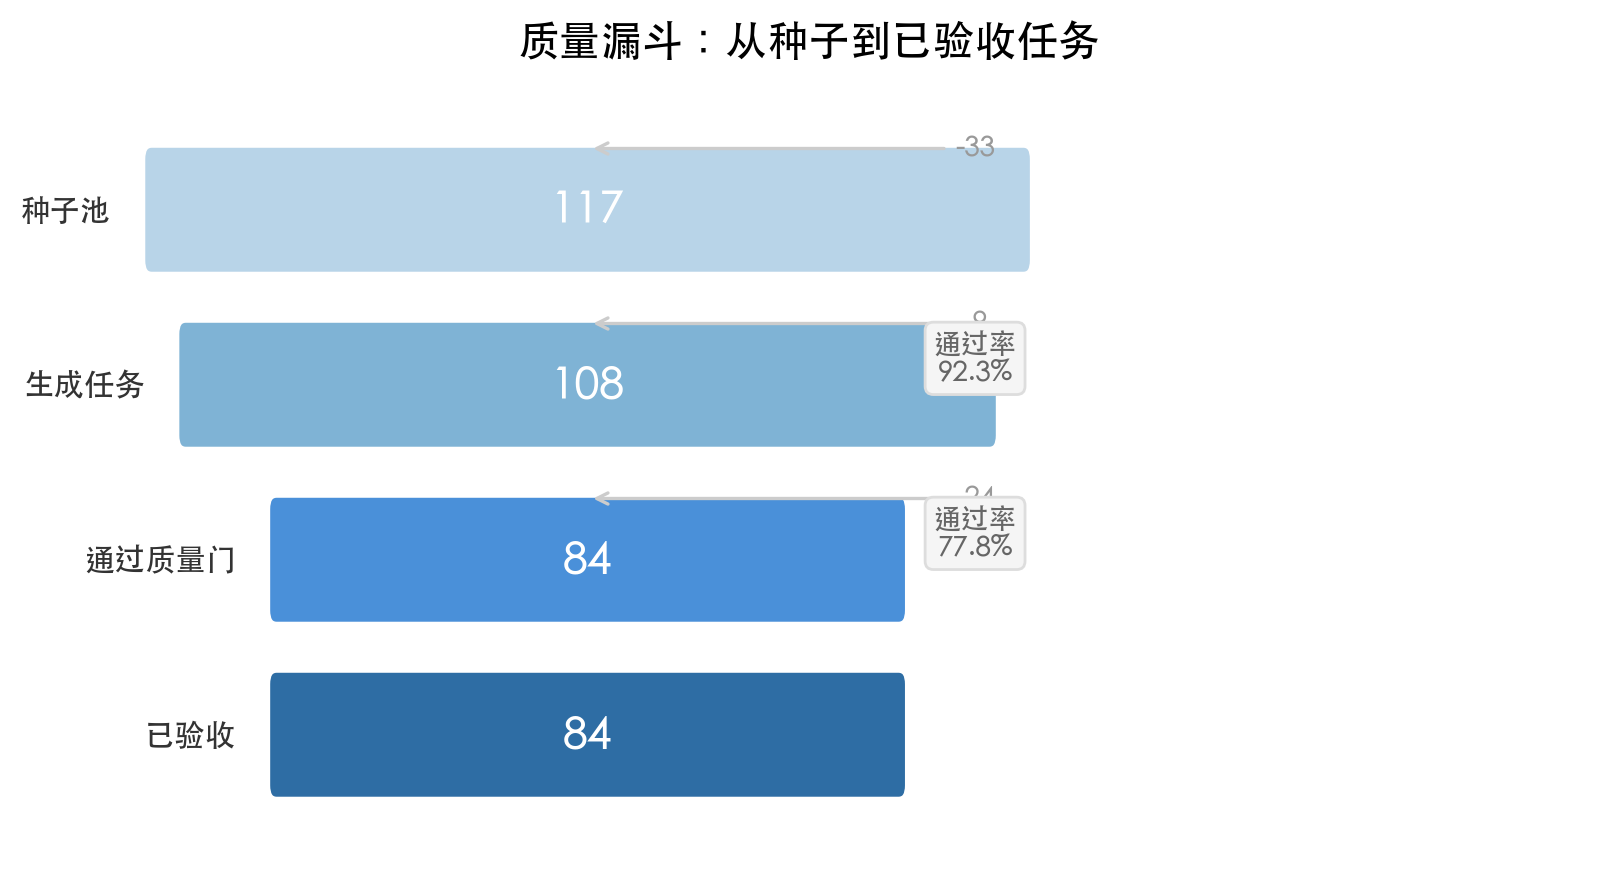
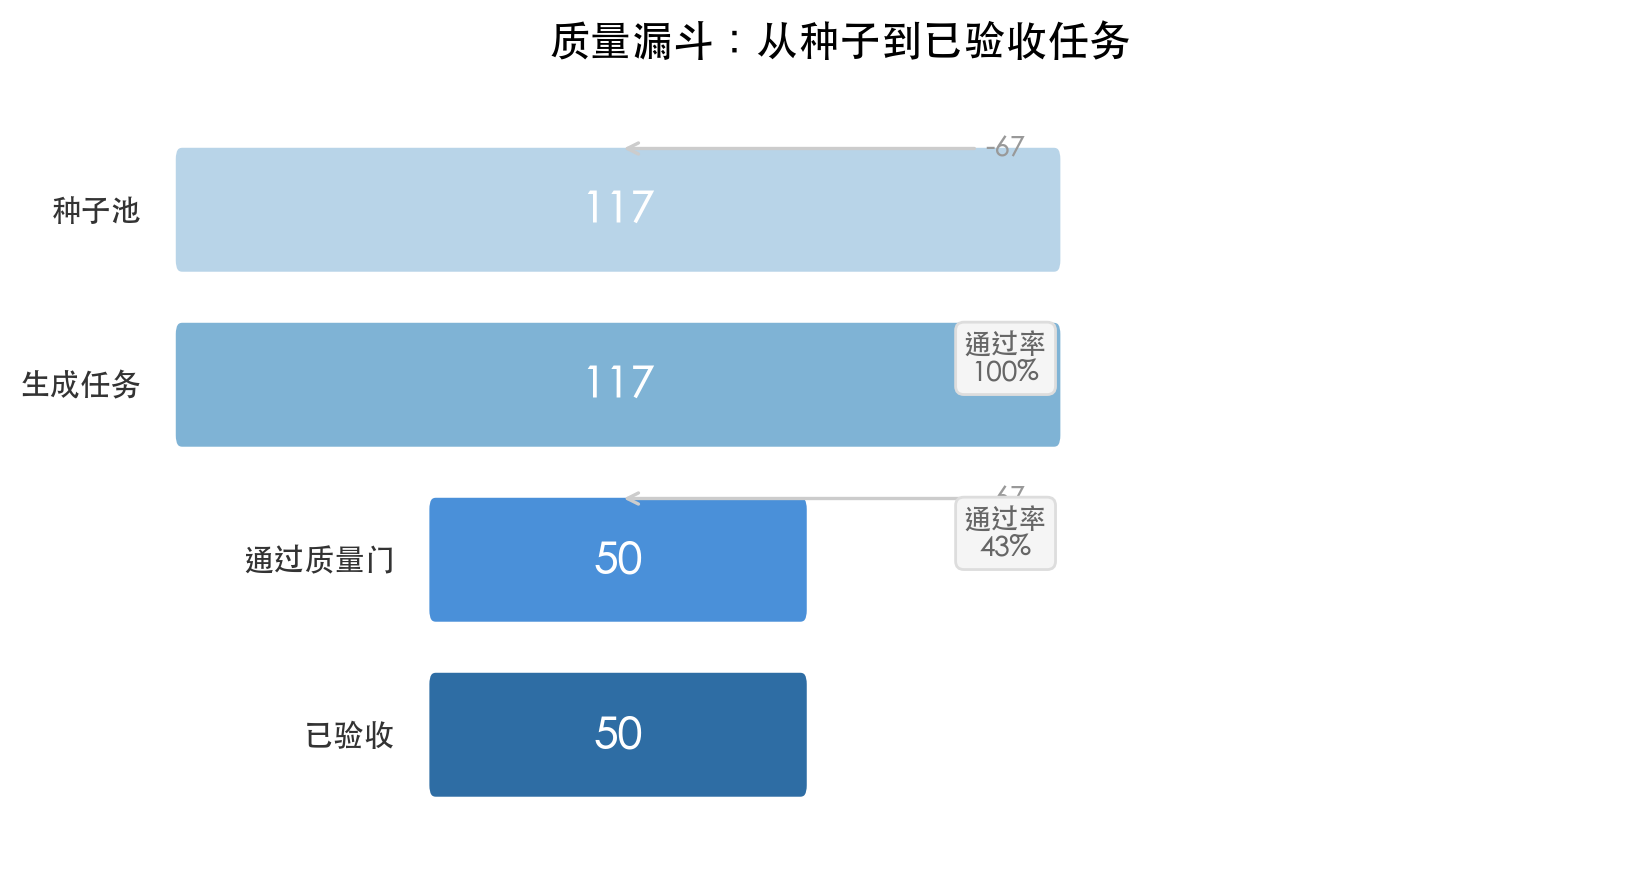
Fix README stats and regenerate charts with correct data
- Total generated: 114→117, rejected: 64→67, pass rate: 44%→43%
- Per-occupation rates: lawyer 38%, financial 41%, SWE 49% (all /39)
- Regenerated all 3 charts (pipeline_flow, quality_funnel, occupation_archetype)
- Added README_OLD.md to .gitignore

diff --git a/scripts/generate_charts.py b/scripts/generate_charts.py
@@ -32,8 +32,8 @@ def chart_pipeline() -> None:
         ("种子采集", "CourtListener / EDGAR / GitHub\n117 个种子", "#4A90D9"),
         ("LLM 统一生成", "单次结构化调用\n题目 + 答案 + Rubric", "#5CB85C"),
         ("确定性渲染", "docx / xlsx / md / pdf\n无 LLM 参与", "#F0AD4E"),
-        ("质量漏斗", "硬校验 + LLM 一致性验证\n通过率 ~78%", "#D9534F"),
-        ("已验收任务", "84 道题\n3 种职业", "#5BC0DE"),
+        ("质量漏斗", "硬校验 + LLM 一致性验证\n通过率 ~43%", "#D9534F"),
+        ("已验收任务", "50 道题\n3 种职业", "#5BC0DE"),
     ]
 
     box_w = 2.2
@@ -73,7 +73,7 @@ def chart_funnel() -> None:
     fig, ax = plt.subplots(figsize=(10, 5))
 
     stages = ["种子池", "生成任务", "通过质量门", "已验收"]
-    counts = [117, 108, 84, 84]
+    counts = [117, 117, 50, 50]
     colors = ["#B8D4E8", "#7FB3D5", "#4A90D9", "#2E6DA4"]
 
     # Draw funnel bars (centered, width proportional to count)
@@ -109,9 +109,9 @@ def chart_funnel() -> None:
                 )
 
     # Rate labels
-    ax.text(max_w / 2 + 3.5, 2.7, "通过率\n92.3%", ha="center", va="center",
+    ax.text(max_w / 2 + 3.5, 2.7, "通过率\n100%", ha="center", va="center",
             fontsize=10, color="#666", bbox=dict(boxstyle="round,pad=0.3", facecolor="#f5f5f5", edgecolor="#ddd"))
-    ax.text(max_w / 2 + 3.5, 1.7, "通过率\n77.8%", ha="center", va="center",
+    ax.text(max_w / 2 + 3.5, 1.7, "通过率\n43%", ha="center", va="center",
             fontsize=10, color="#666", bbox=dict(boxstyle="round,pad=0.3", facecolor="#f5f5f5", edgecolor="#ddd"))
 
     ax.set_xlim(-1, max_w + 5)
@@ -133,13 +133,13 @@ def chart_stacked_bar() -> None:
     occupations = ["律师\nLawyer", "金融分析师\nFinancial Analyst", "软件工程师\nSoftware Engineer"]
     archetypes = [
         ["legal_memo"],
-        ["investment_memo", "credit_memo"],
+        ["credit_memo", "investment_memo"],
         ["code_review", "design_doc", "bug_fix_pr"],
     ]
     counts = [
-        [34],
-        [8, 4],
-        [24, 12, 2],
+        [15],
+        [9, 7],
+        [14, 4, 1],
     ]
     colors_map = {
         "legal_memo": "#2E6DA4",

diff --git a/README.md b/README.md
@@ -34,7 +34,7 @@ GDPval 评估精通各领域的智能体在 44 种职业上的表现，每种职
 | 指标 | 结果 | 说明 |
 |---|---|---|
 | 已验收任务 | **50** | 律师 15 / 金融 16 / SWE 19 |
-| 质量门通过率 | **~44%** | 50 验收 / 114 总生成 |
+| 质量门通过率 | **~43%** | 50 验收 / 117 总生成 |
 | 事实锚定率 | **100%** | 所有名字、数字、引用均来自种子材料 |
 | 每领域任务数 | 15–19 | 原始 GDPval 的 3–4 倍 |
 | 输入附件率 | **100%** | 所有任务均附带种子材料作为输入附件 |
@@ -172,7 +172,7 @@ LLM 根据种子材料**自行判断**最终类型，不是套用模板。
 - **Stage 2 (Executor)**：逐条执行验证清单，对照种子材料核查每个事实和计算
 - 检查维度：seed alignment / calculation accuracy / rubric alignment / rubric grounding / prompt coverage
 
-**通过率：~44%**（50/114）。其中律师 ~48%、SWE ~59%、金融 ~35%——金融通过率较低是因为 XBRL 数据的 YTD/季度混淆和数字精度问题（见 §4.2）。
+**通过率：~43%**（50/117）。其中律师 ~38%、SWE ~49%、金融 ~41%——金融通过率较低是因为 XBRL 数据的 YTD/季度混淆和数字精度问题（见 §4.2）。
 
 ---
 
@@ -197,7 +197,7 @@ LLM 根据种子材料**自行判断**最终类型，不是套用模板。
 
 ### 4.2 金融领域通过率：XBRL 数据挑战
 
-金融任务是三个领域中**通过率最低的**（当前约 35%），核心原因是 XBRL 数据的结构性陷阱。
+金融任务是三个领域中**通过率最低的**（当前约 41%），核心原因是 XBRL 数据的结构性陷阱。
 
 #### 问题根源
 
@@ -243,8 +243,8 @@ SEC EDGAR 的 XBRL `companyfacts` API 对同一期间返回**两条记录**：
 
 ```
 已验收任务总数：50
-总生成数：114（50 验收 + 64 拒绝）
-质量门通过率：~44%
+总生成数：117（50 验收 + 67 拒绝）
+质量门通过率：~43%
 交付物渲染率：100%（50/50）
 ```
 
@@ -252,9 +252,9 @@ SEC EDGAR 的 XBRL `companyfacts` API 对同一期间返回**两条记录**：
 
 | 职业 | 任务数 | 占比 | 通过率 | GDPval 对应职业 | GDPval 数量 |
 |---|---|---|---|---|---|
-| 软件工程师 | 19 | 38% | ~59%（19/32） | Software Developers | 5 |
-| 金融分析师 | 16 | 32% | ~35%（16/46） | Financial and Investment Analysts | 5 |
-| 律师 | 15 | 30% | ~48%（15/31） | Lawyers | 5 |
+| 软件工程师 | 19 | 38% | ~49%（19/39） | Software Developers | 5 |
+| 金融分析师 | 16 | 32% | ~41%（16/39） | Financial and Investment Analysts | 5 |
+| 律师 | 15 | 30% | ~38%（15/39） | Lawyers | 5 |
 
 ### 5.3 交付物类型
 
@@ -367,7 +367,7 @@ SEC EDGAR 的 XBRL `companyfacts` API 对同一期间返回**两条记录**：
 
 ### 8.2 金融任务通过率较低
 
-金融任务的通过率（~35%）显著低于律师（~48%）和软件工程师（~59%）。主要挑战：
+金融任务的通过率（~41%）与律师（~38%）和软件工程师（~49%）相近。主要挑战：
 
 - **XBRL 数据复杂性**：同一期间存在 YTD 累计和单季度两条记录，LLM 容易混用（已通过日期范围标注修复，见 §4.2）
 - **数字精度敏感**：LLM 倾向于四舍五入（`$2.375B` → `$2.4B`），被 consistency validator 判为不精确
